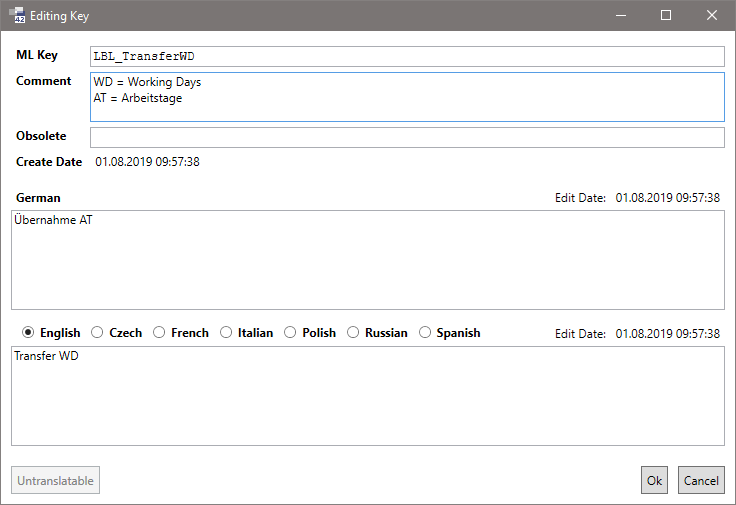
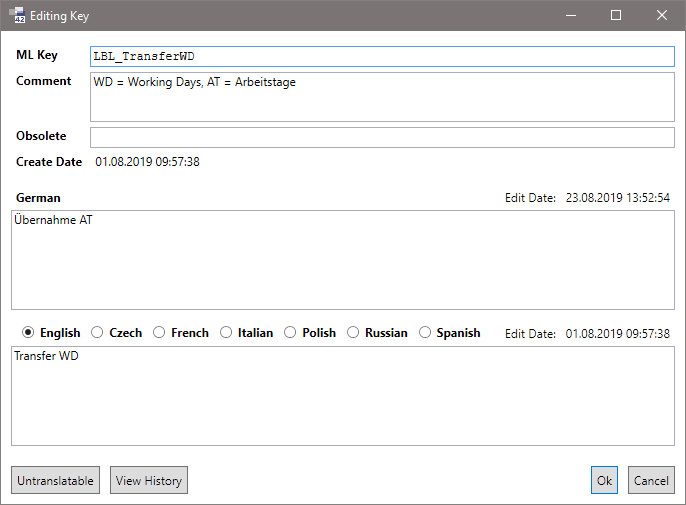
MLKey neue Funktion Histroy-Anzeige

diff --git a/doc/mlkey/woerterbuch.md b/doc/mlkey/woerterbuch.md
@@ -103,6 +103,8 @@ Wird im Customizing-Package ein MLKey aus dem Basis-Package geöffnet, dann sind
 
 Die Texte können bearbeitet werden.
 
+Mit dem Button **View History** wird ein weiteres Fenster geöffnet, in dem die Version des Eintrages vor der letzten Bearbeitung angezeigt wird. Siehe [Abschnitt History](#history).
+
 ## Copy Entry / Paste Entry
 
 Wenn man ein oder mehrere Einträge selektiert hat, kann man mit dem Button **Copy Entry** diese in die Zwischenablage kopieren. Mit dem Button **Paste Entry** können diese Einträge z.B. in einer anderen Version des Packages eingefügt werden.
@@ -132,3 +134,27 @@ Jedes Customizing-Package verwaltet sein eigenes Wörterbuch.
     Es muss darauf geachtet werden, dass die Bedeutung des MLKeys nicht geändert wird, weil dieser ggf. an mehreren Stellen in der Anwendung verwendet wird. Wird an einer bestimmten Stelle in der Anwendung ein anderer Text benötigt (in eNVenta kann das z.B. der Text "Code1" sein, der ersetzt werden soll) dann muss an dieser Stelle (jedoch möglichst weit unten in der DBColumn oder Metadatentyp) ein anderer MLKey zugeordnet werden. (siehe auch [MLString-Vererbung](mlstring.md#vererbung))
 
 Im Customizing-Package übersetzte Texte können [exportiert](import-export.md) und in das Basis-Package importiert werden. Zu einem späteren Zeitpunkt können die dann redundanten Übersetzung mit der [MLKeys Cleanup](mlkey-cleanup.md) Routine bereinigt werden.
+
+## History
+
+Bei jeder Bearbeitung im Wörterbuch wird die Vorgänger-Version des MLKeys in einen separaten History-Bereich geschrieben.
+
+Aus dem [Edit-Dialog](#bearbeiten-von-mlkeys) heraus kann diese Information mit dem Button **View History** geöffnet werden. Gibt es keine Informationen, ist der Button deaktiviert.
+
+Die History arbeitet pro Sprache. Wird z.B. der englische Text bearbeitet, wird auch nur der alte englische Text mit seinem alten Änderungs-Datum in den History-Bereich übertragen. Die History-Informationen der anderen Sprachen bleiben unverändert.
+
+Eine Besonderheit ist der deutsche Text. Dieser wird intern zusammen mit dem **Comment** und der **Obsolete-Message** gespeichert. Ändert man eine dieser Informationen, dann werden alle gemeinsam in den History-Bereich übertragen.
+
+Wird ein **MLKey gelöscht**, wird der komplette Eintrag mit allen Sprachen in die History übertragen. Dieser kann jedoch zu einem späteren Zeitpunkt nicht mehr ohne weiteres gegriffen werden.
+
+> [!TIP]
+>
+> Wurde ein MLKey versehentlich gelöscht und es gibt einen Compile-Error mit dem entsprechenden MLKey, dann kann man diesen Eintrag wieder neu im Wörterbuch anlegen. Beim anschließenden Bearbeiten des MLKeys können dann die History-Informationen eingesehen werden.
+
+Gefüllt wird die History mit dem **Save**-Button. Framework Studio sammelt alle im Wörterbuch vorgenommenen Änderungen und speichert diese mit dem **Save**-Button in einem Rutsch. Dadurch kann ein Text auch mehrfach hintereinander geändert werden. Erst nach dem Save steht der alte Text in der History.
+
+> [!NOTE]
+>
+> * Beim Labeln der Package-Version wird die History-Information nicht in die neue Package-Version übernommen.
+>
+> * Die History-Informationen berücksichtigen nur das aktuelle Package. Weil für Basis-Packages das Wörterbuch aus dem letzten Framework-Compiler-Stand gelesen wird, enthält es keine History-Informationen.
